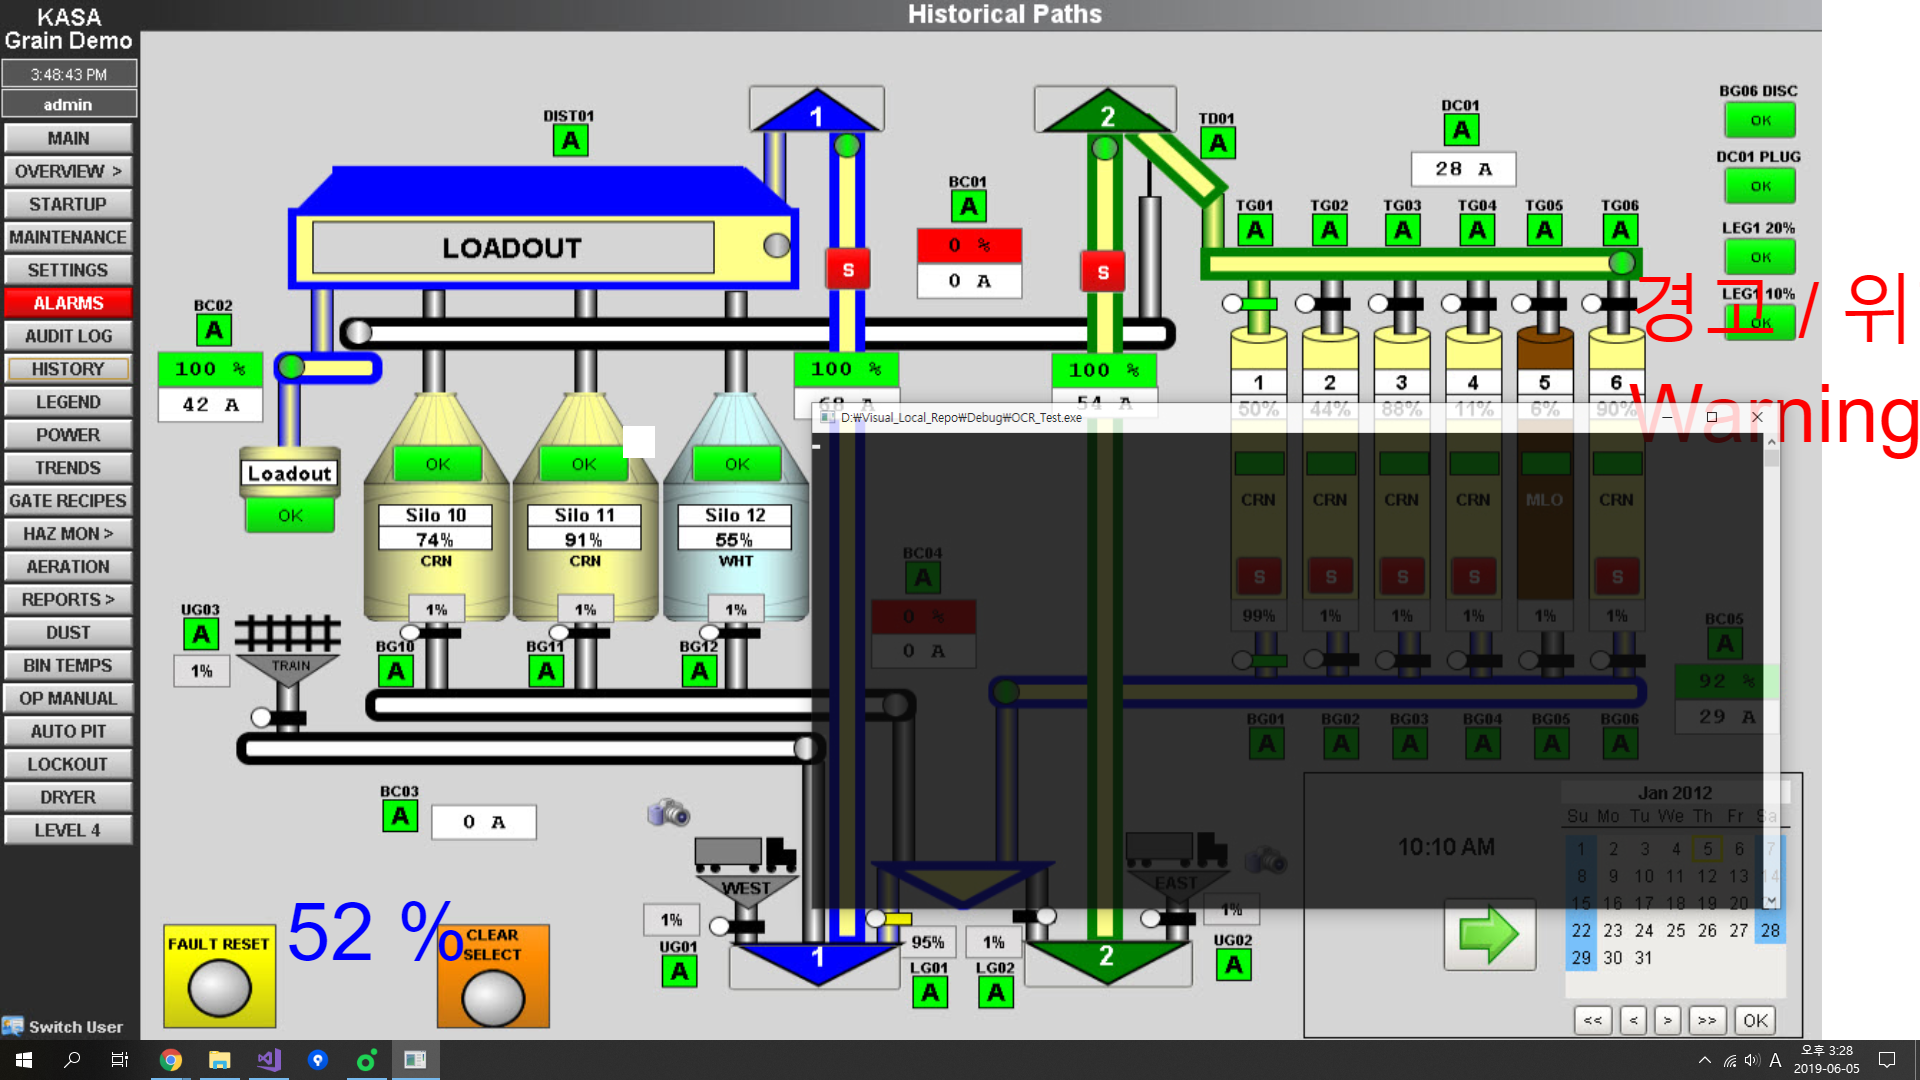
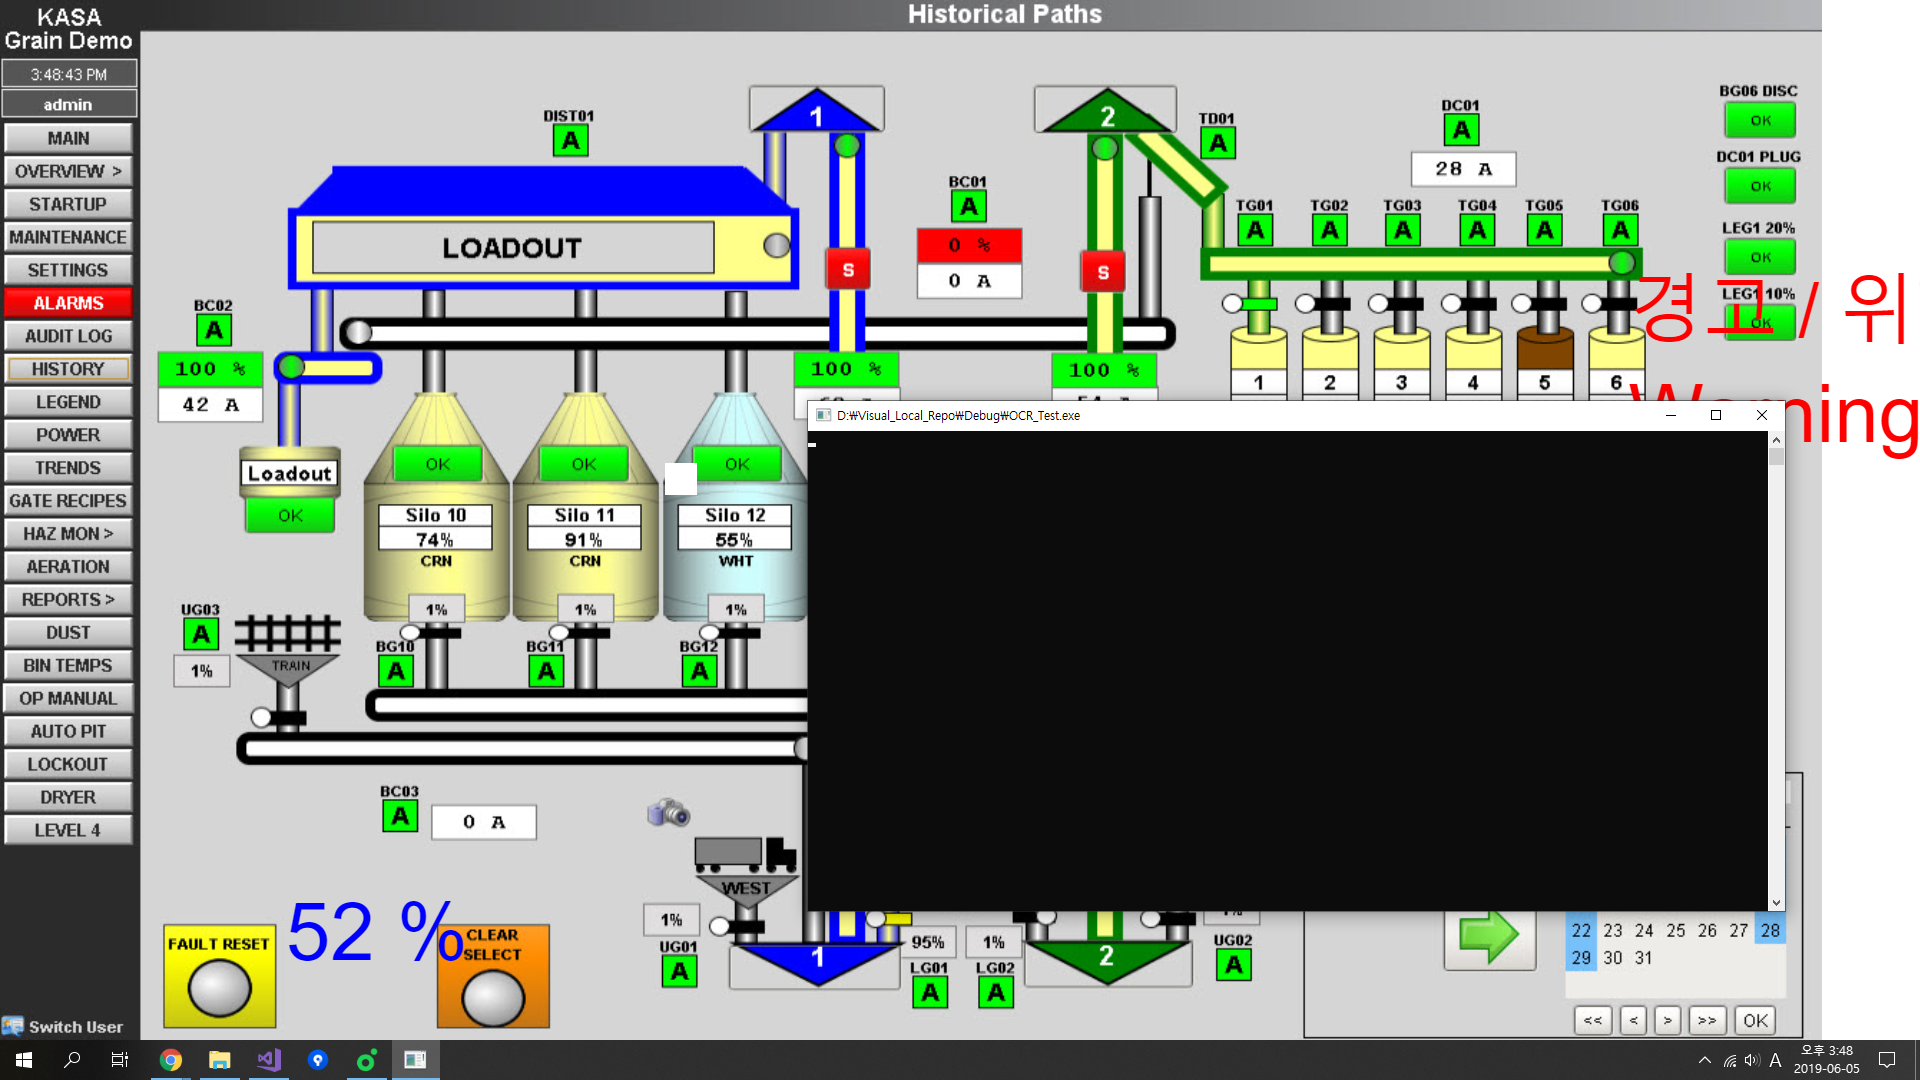
수자만 남기는 메서드 수정함

Changed region(s): [[0.4062, 0.3667, 0.9375, 0.8556], [0.3438, 0.4278, 0.375, 0.4583], [0.3125, 0.3972, 0.3438, 0.4278]]

diff --git a/DllTest/TextMatchClass.h b/DllTest/TextMatchClass.h
@@ -13,12 +13,13 @@ public:
 
 	bool Han_Delete(std::string input_string);
 	bool Find_Base_String(std::string input_string);
-	bool Find_Scope(int Input_Num);
+	bool Find_Scope(std::string Input_Num);
 	
 	bool Detect;
 
 private:
 
+	int Remain_Num(std::string input_string);
 	std::string Delete_Enter(std::string input_string);
 
 	const int Base_Num;
